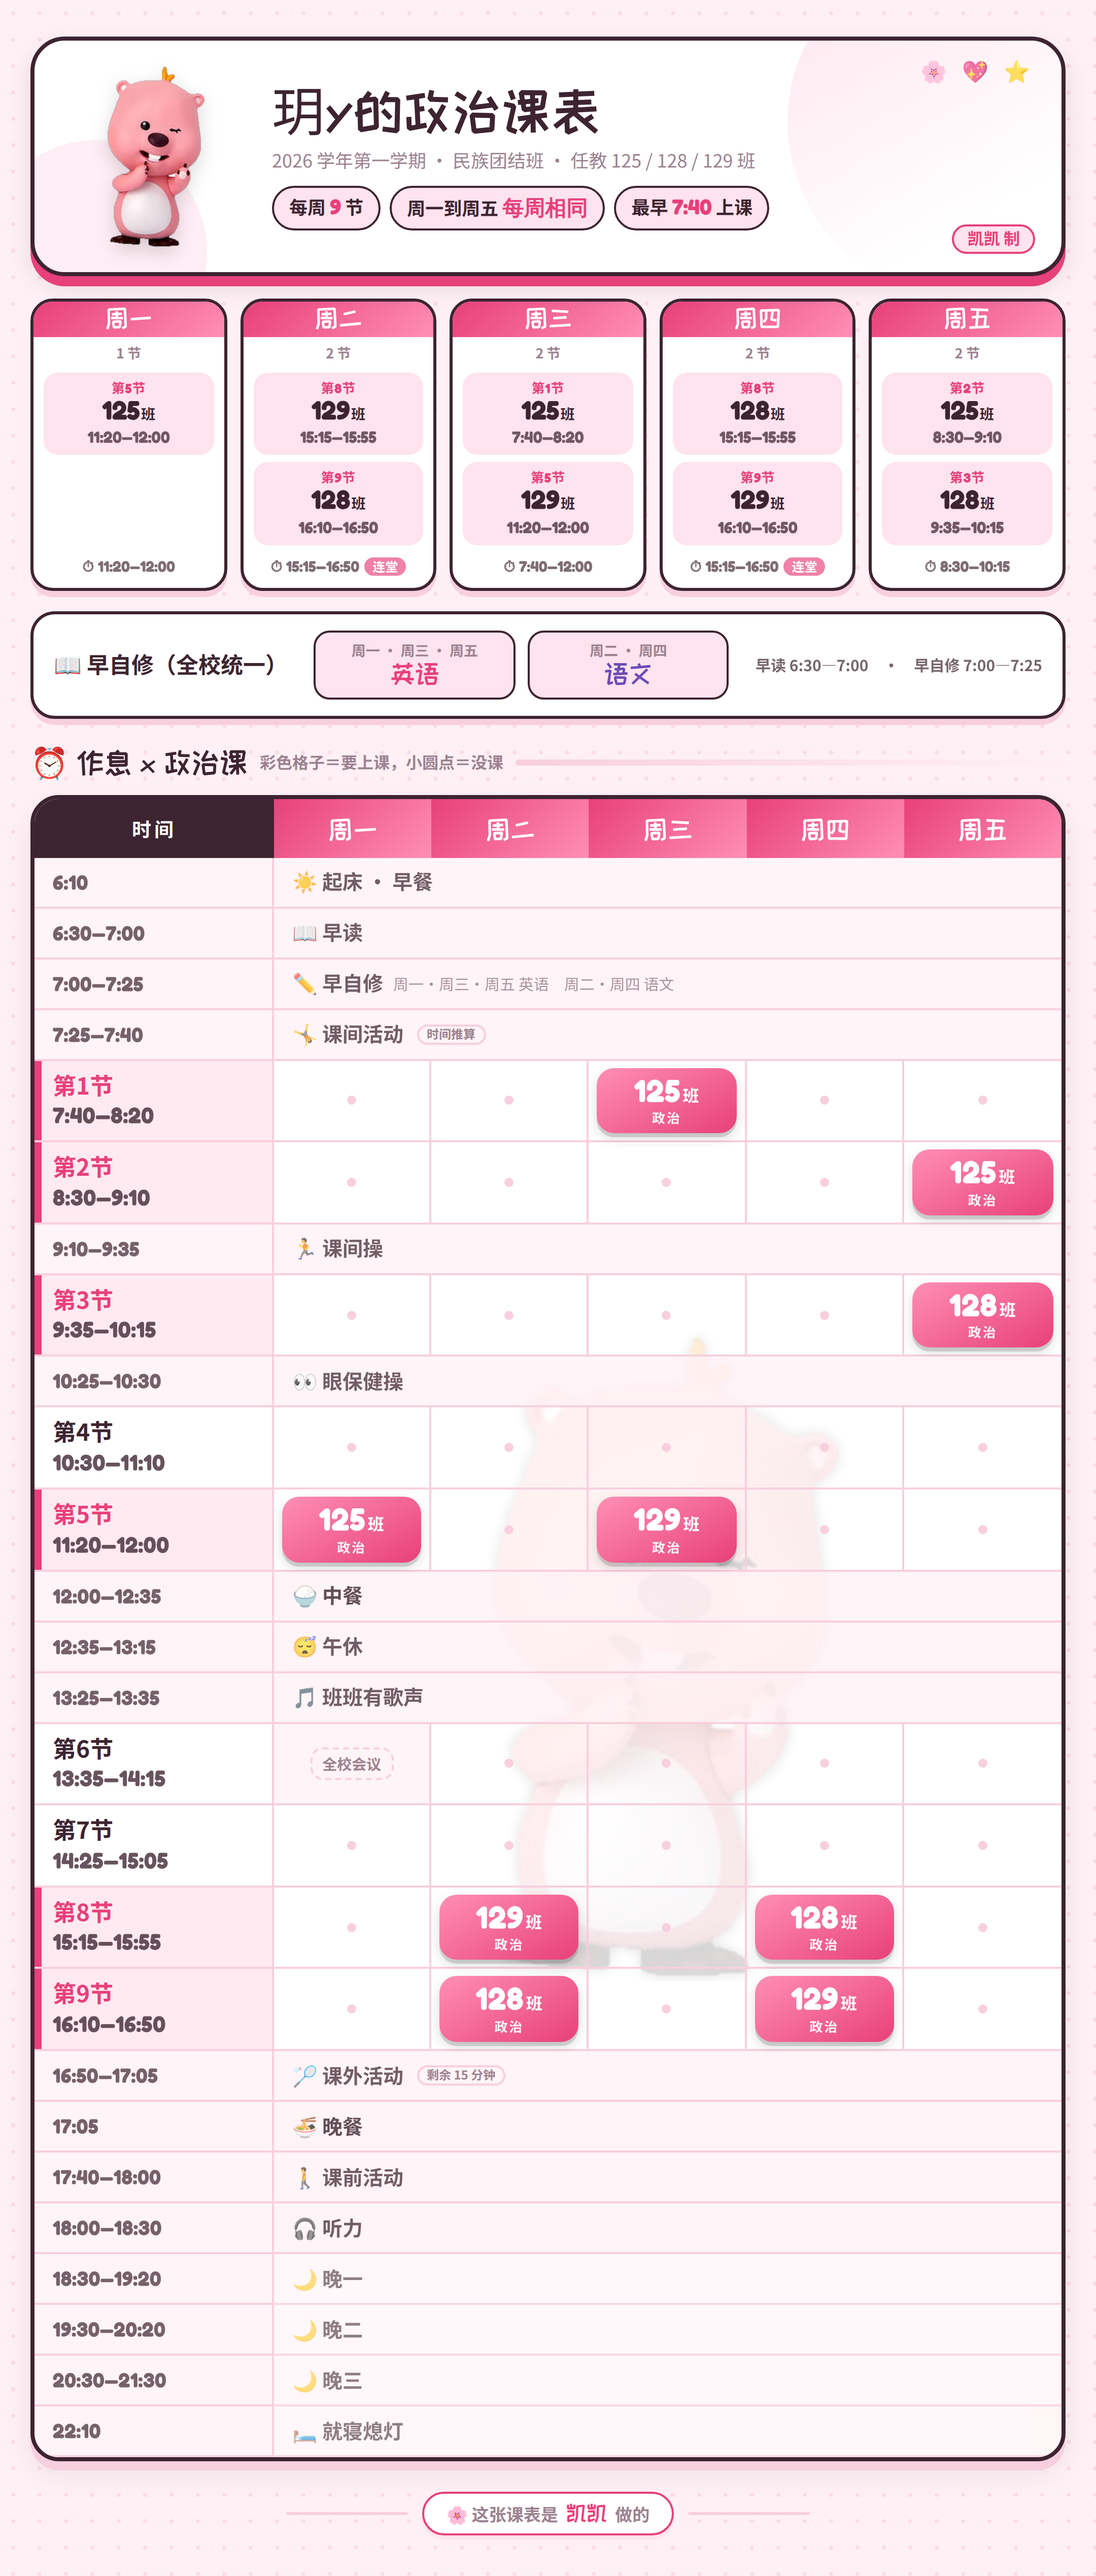
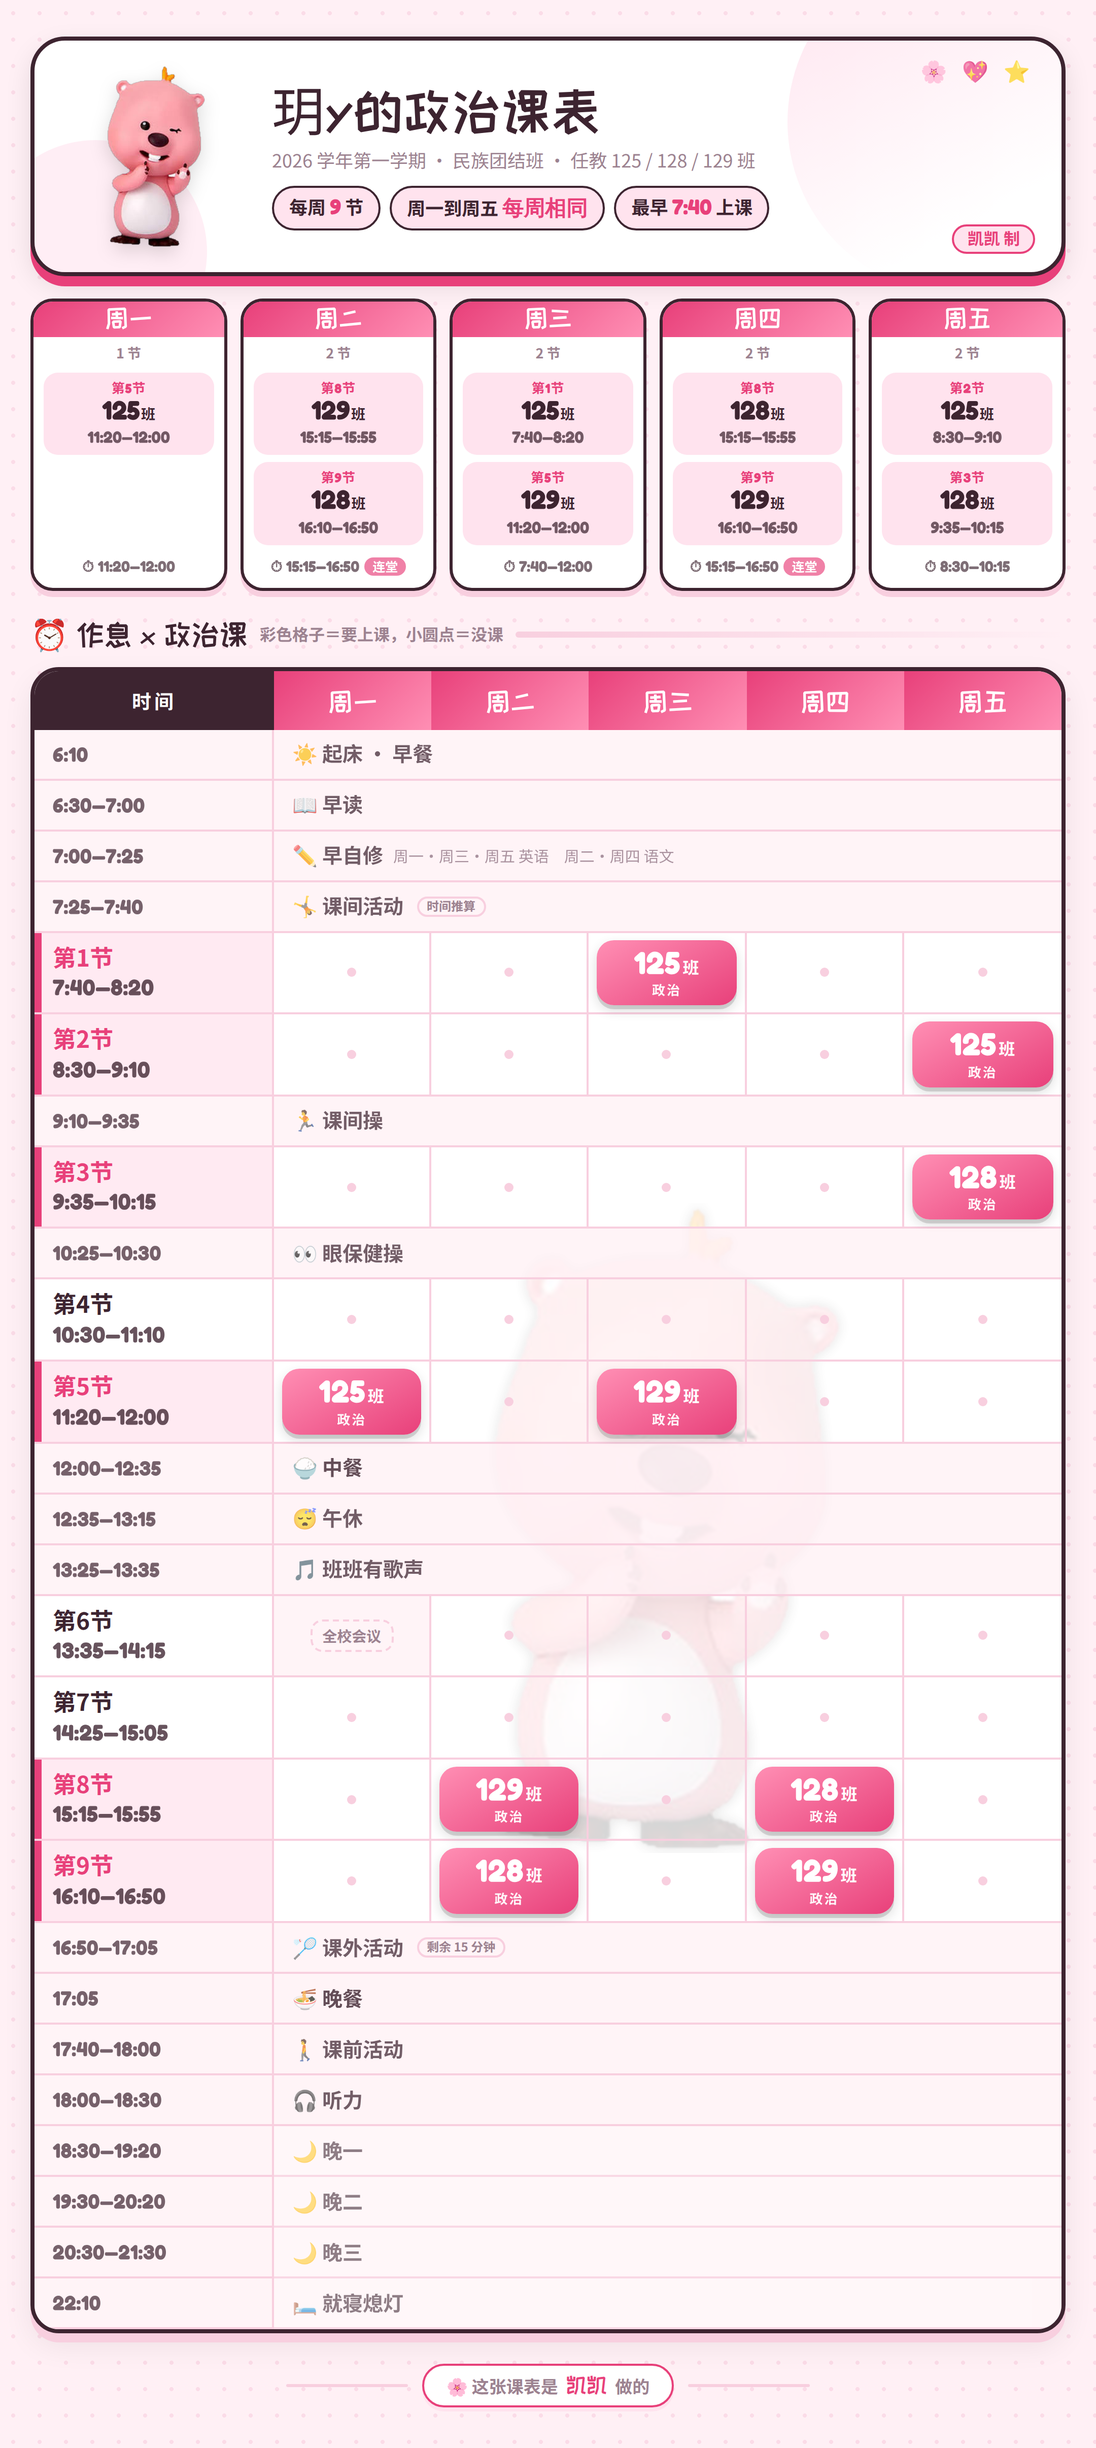
Remove the standalone morning-study card from the portrait layout
Its two subjects already appear inline on the table's 早自修 row, so the card
only repeated them. Portrait is now header, week glance, table, signature -
matching landscape, where the table has carried this since the routine moved in.

Claude-Session: https://claude.ai/code/session_01PkbQVBneuAgKa97Dwj4CEX

diff --git a/timetable/tt_bunny.html b/timetable/tt_bunny.html
@@ -194,17 +194,6 @@ h2{font-size:30px}
         <div class="gl__sp">⏱ 8:30—10:15</div>
       </div></div>
 
-  <div class="notes">
-    <div class="note note--sr">
-      <h3>📖 早自修（全校统一）</h3>
-      <div class="sr">
-        <div class="sr__i"><span class="sr__d">周一 · 周三 · 周五</span><b>英语</b></div>
-        <div class="sr__i sr__i--b"><span class="sr__d">周二 · 周四</span><b>语文</b></div>
-      </div>
-      <div class="sr__t">早读 6:30—7:00　·　早自修 7:00—7:25</div>
-    </div>
-  </div>
-
   <div class="sec__hd"><h2>⏰ 作息 × 政治课</h2>
     <span class="kicker">彩色格子＝要上课，小圆点＝没课</span><span class="bar"></span></div>
   <div class="grid">

diff --git a/timetable/tt_kitty.html b/timetable/tt_kitty.html
@@ -194,17 +194,6 @@ h2{font-size:30px}
         <div class="gl__sp">⏱ 8:30—10:15</div>
       </div></div>
 
-  <div class="notes">
-    <div class="note note--sr">
-      <h3>📖 早自修（全校统一）</h3>
-      <div class="sr">
-        <div class="sr__i"><span class="sr__d">周一 · 周三 · 周五</span><b>英语</b></div>
-        <div class="sr__i sr__i--b"><span class="sr__d">周二 · 周四</span><b>语文</b></div>
-      </div>
-      <div class="sr__t">早读 6:30—7:00　·　早自修 7:00—7:25</div>
-    </div>
-  </div>
-
   <div class="sec__hd"><h2>⏰ 作息 × 政治课</h2>
     <span class="kicker">彩色格子＝要上课，小圆点＝没课</span><span class="bar"></span></div>
   <div class="grid">

diff --git a/timetable/tt_loopy.html b/timetable/tt_loopy.html
@@ -194,17 +194,6 @@ h2{font-size:30px}
         <div class="gl__sp">⏱ 8:30—10:15</div>
       </div></div>
 
-  <div class="notes">
-    <div class="note note--sr">
-      <h3>📖 早自修（全校统一）</h3>
-      <div class="sr">
-        <div class="sr__i"><span class="sr__d">周一 · 周三 · 周五</span><b>英语</b></div>
-        <div class="sr__i sr__i--b"><span class="sr__d">周二 · 周四</span><b>语文</b></div>
-      </div>
-      <div class="sr__t">早读 6:30—7:00　·　早自修 7:00—7:25</div>
-    </div>
-  </div>
-
   <div class="sec__hd"><h2>⏰ 作息 × 政治课</h2>
     <span class="kicker">彩色格子＝要上课，小圆点＝没课</span><span class="bar"></span></div>
   <div class="grid">

diff --git a/timetable/tt_puppy.html b/timetable/tt_puppy.html
@@ -194,17 +194,6 @@ h2{font-size:30px}
         <div class="gl__sp">⏱ 8:30—10:15</div>
       </div></div>
 
-  <div class="notes">
-    <div class="note note--sr">
-      <h3>📖 早自修（全校统一）</h3>
-      <div class="sr">
-        <div class="sr__i"><span class="sr__d">周一 · 周三 · 周五</span><b>英语</b></div>
-        <div class="sr__i sr__i--b"><span class="sr__d">周二 · 周四</span><b>语文</b></div>
-      </div>
-      <div class="sr__t">早读 6:30—7:00　·　早自修 7:00—7:25</div>
-    </div>
-  </div>
-
   <div class="sec__hd"><h2>⏰ 作息 × 政治课</h2>
     <span class="kicker">彩色格子＝要上课，小圆点＝没课</span><span class="bar"></span></div>
   <div class="grid">

diff --git a/timetable/build.py b/timetable/build.py
@@ -429,17 +429,6 @@ PAGE = """<!doctype html><html lang="zh-CN"><head><meta charset="utf-8">
 
   <div class="glance">%(glance)s</div>
 
-  <div class="notes">
-    <div class="note note--sr">
-      <h3>📖 早自修（全校统一）</h3>
-      <div class="sr">
-        <div class="sr__i"><span class="sr__d">周一 · 周三 · 周五</span><b>英语</b></div>
-        <div class="sr__i sr__i--b"><span class="sr__d">周二 · 周四</span><b>语文</b></div>
-      </div>
-      <div class="sr__t">早读 6:30—7:00　·　早自修 7:00—7:25</div>
-    </div>
-  </div>
-
   <div class="sec__hd"><h2>⏰ 作息 × 政治课</h2>
     <span class="kicker">彩色格子＝要上课，小圆点＝没课</span><span class="bar"></span></div>
   <div class="grid">
